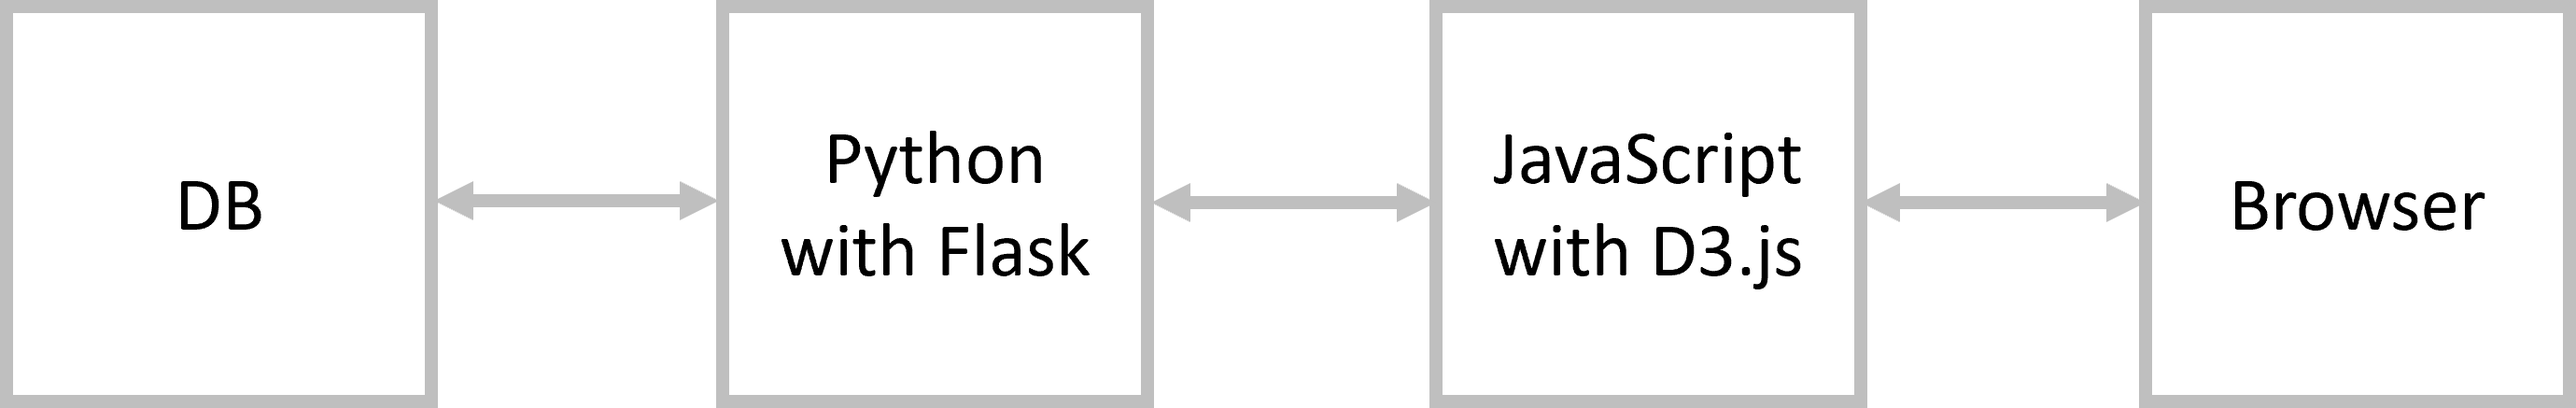
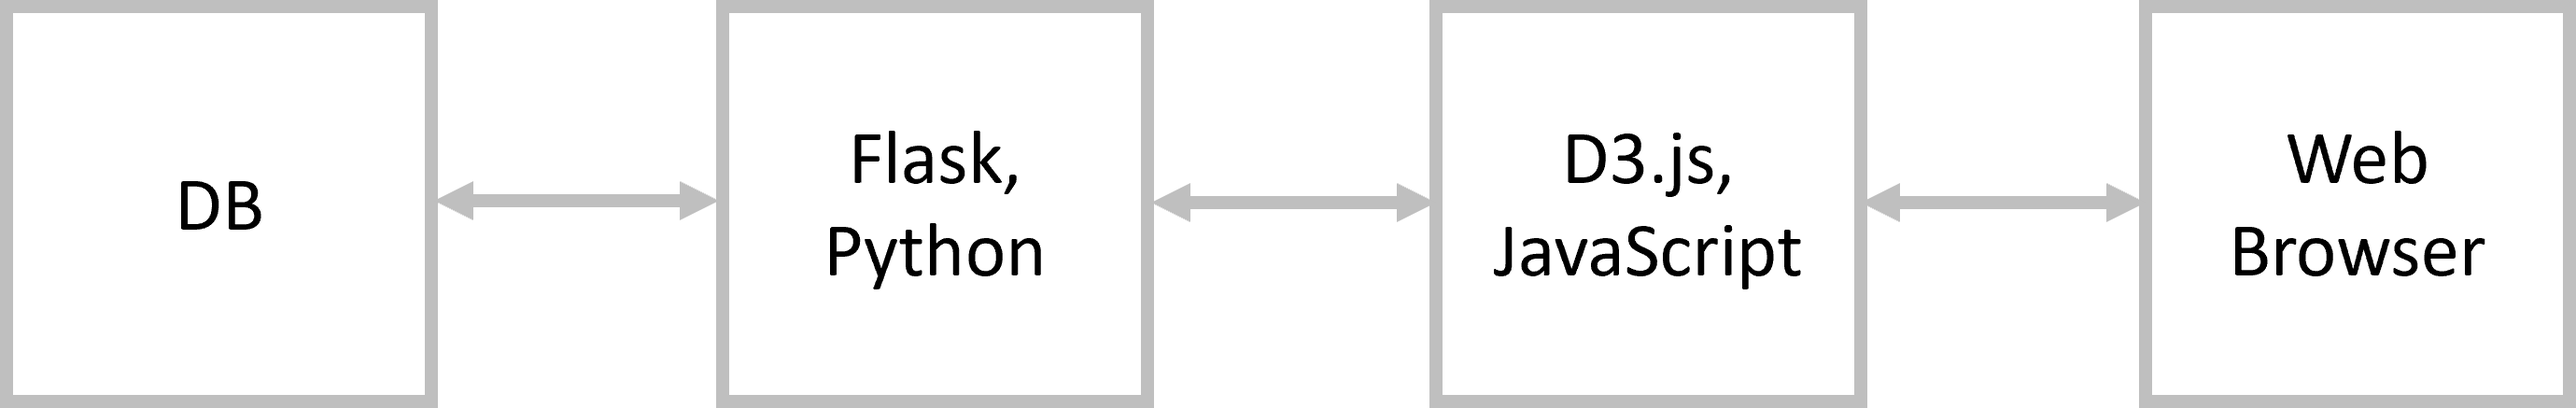
update

diff --git a/README.md b/README.md
@@ -3,7 +3,7 @@
 These examples on Interactive Data Visualization in the browser using `Flask` and `D3.js` are compiled with some modifications from the book "Data Visualization with Python and JavaScript: Scrape, Clean, Explore, and Transform Your Data" by Kyran Dale, published by O'Reilly Media in 2023. Some of them with `D3.js` are also duplicated on my [VizHub](https://vizhub.com/ax-va). The examples related to `Flask`, `SQLAlchemy`, and `marshmallow`, and also `MongoDB`, `BeautifulSoup` (`bs4`), `Scrapy`, and `Pandas` were moved to [another repository](https://github.com/ax-va/Python-Topics/tree/main/topics).
 
 <p align="center">
-  <img src="https://github.com/ax-va/Interactive-Data-Visualization-Dale-2023/blob/main/dataviz.png" width="700" />
+  <img src="https://github.com/ax-va/Interactive-Data-Visualization-Dale-2023/blob/main/dataviz.svg" width="700" />
 </p>
 
 This content is mainly front-end oriented and consists of two parts: an introduction into `JavaScript`, `HTML`, `CSS`, `Flex`, `SVG`, `Plotly`, and `D3.js` in the `sandbox` folder and a final visualization project in the `final_viz` folder.
